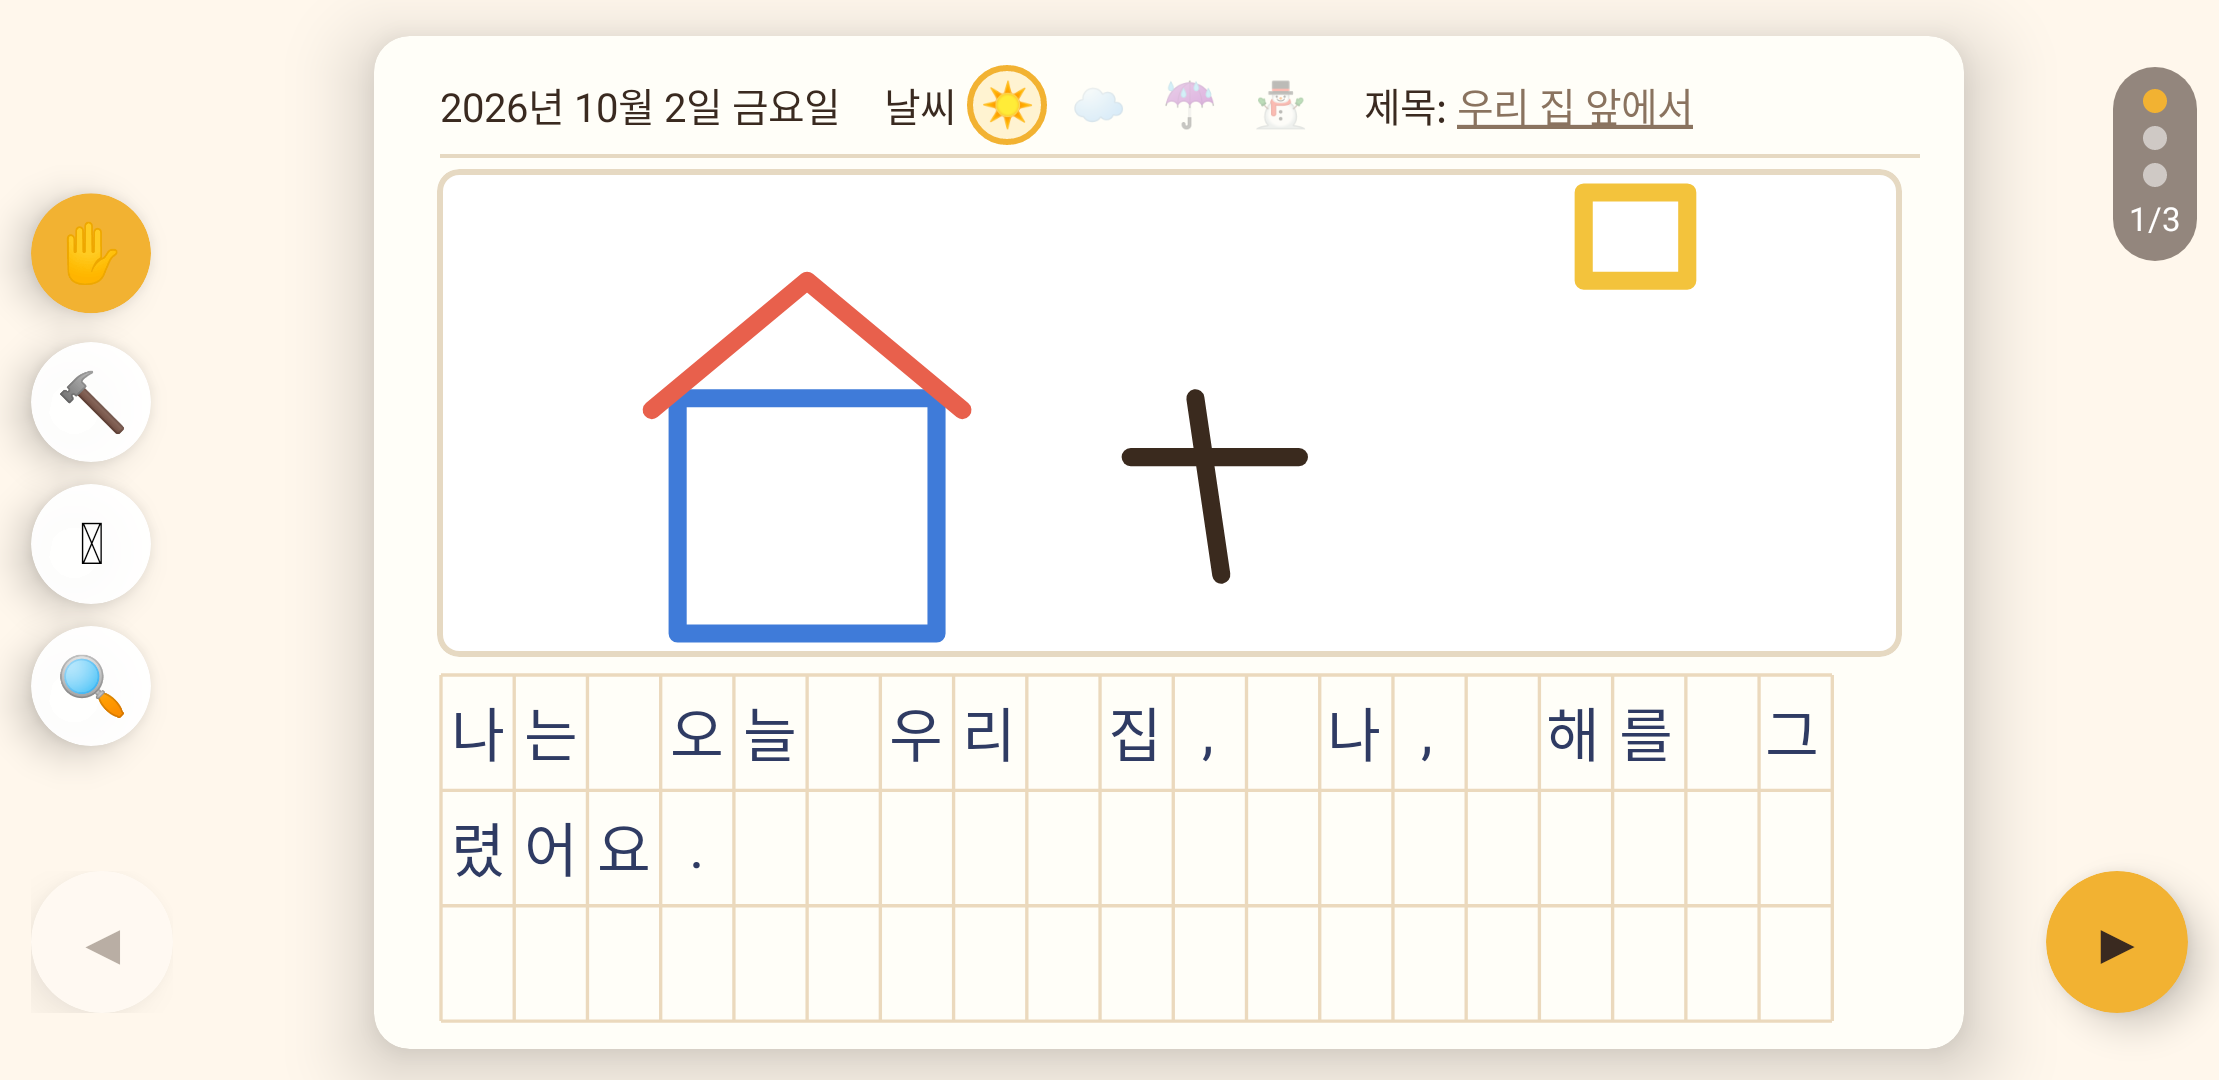
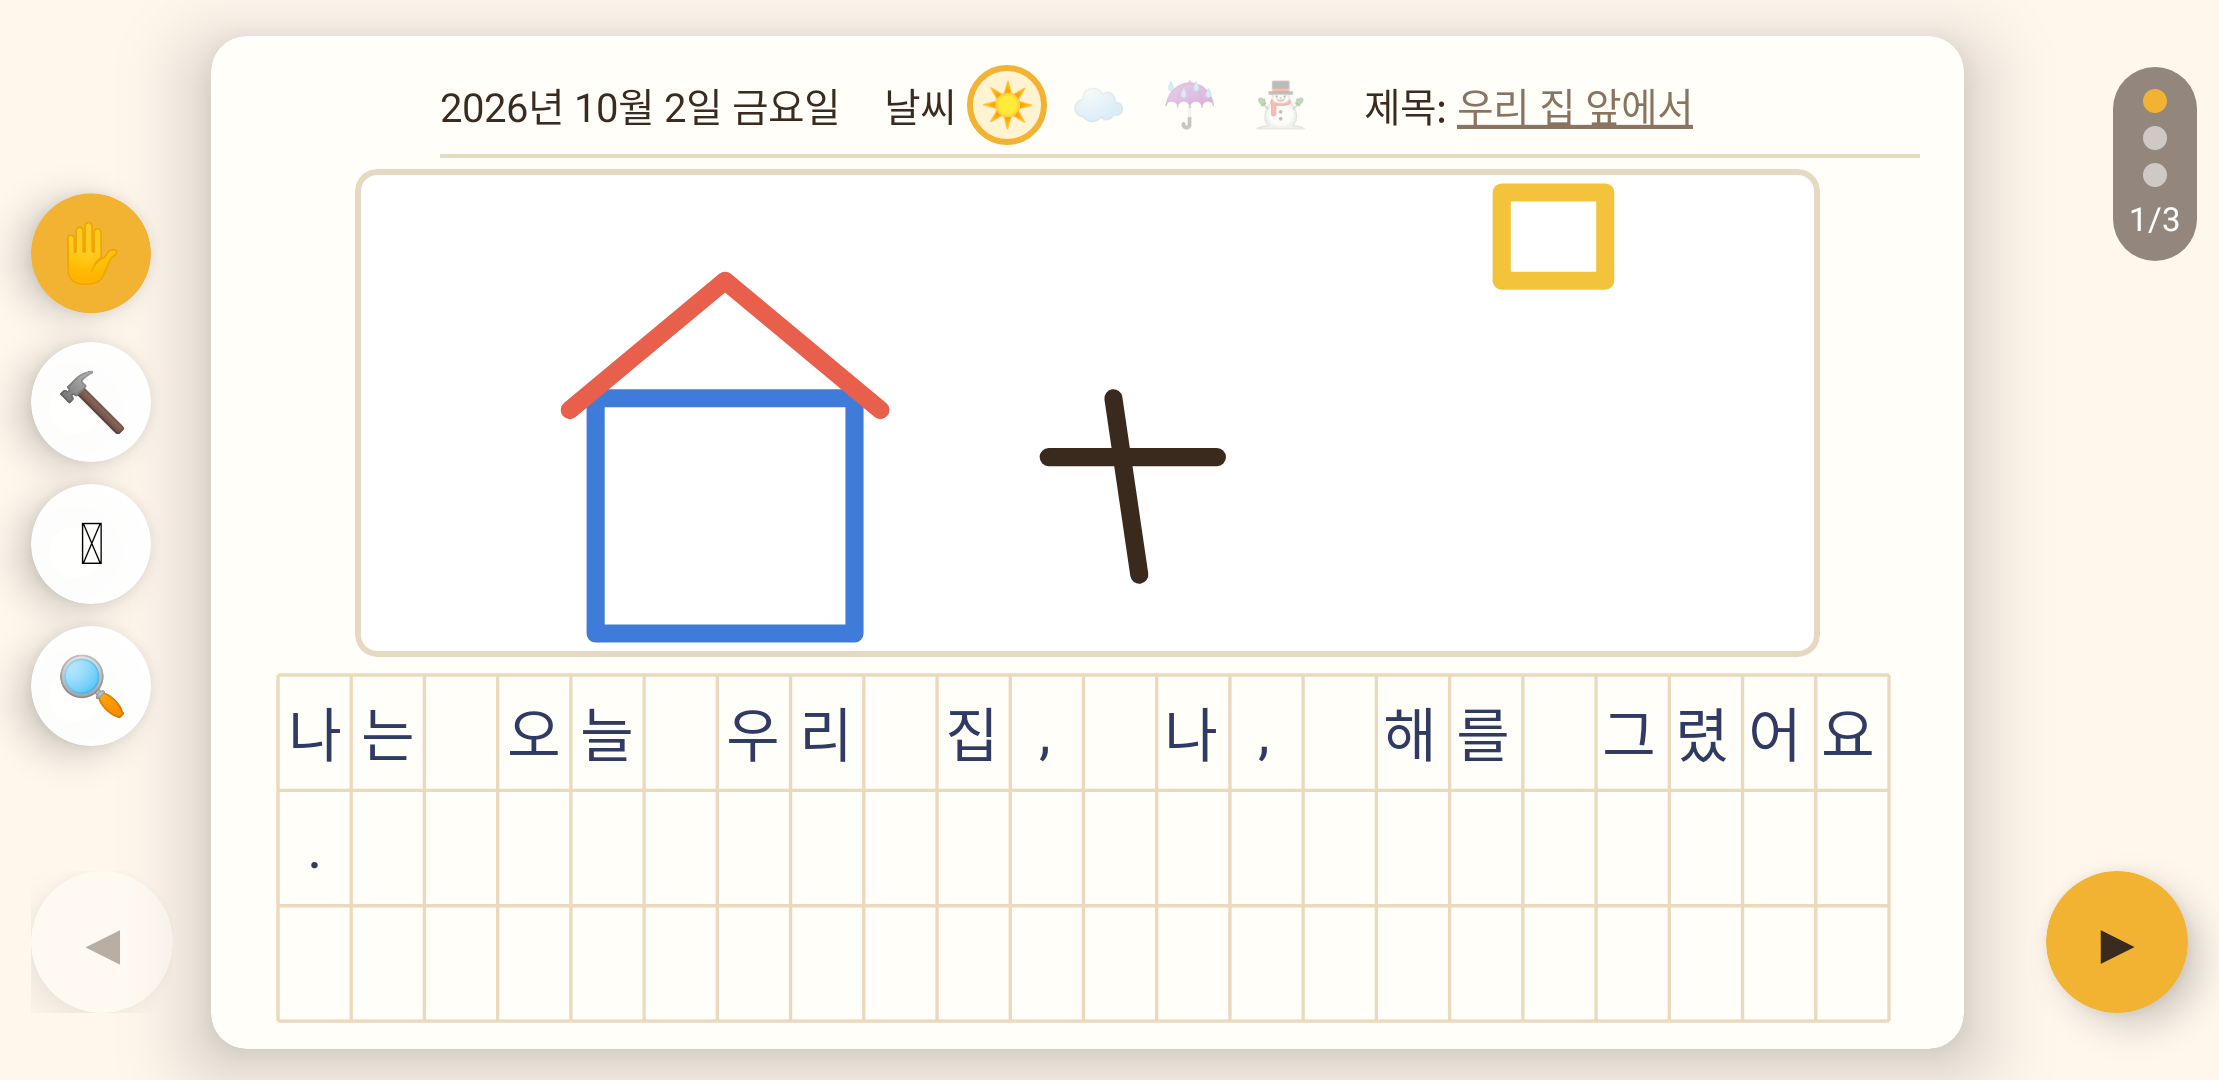
feat(diary): no 🔒 parent door on the picture-diary screens — the board and the page get the room back; the room and the other modes keep it (KidTopBar lock param · one line in MainActivity)
Claude-Session: https://claude.ai/code/session_014T8D9DMqBWvFNzrUFjutEA

diff --git a/android/app/src/main/java/com/example/finalproject_demo/ui/shell/Room.kt b/android/app/src/main/java/com/example/finalproject_demo/ui/shell/Room.kt
@@ -692,15 +692,18 @@ fun online(ctx: Context): Boolean = runCatching {
  * 🏠 는 바로 나가지 않고 「방으로 갈까?」를 묻는다 — 아이가 잘못 눌러 만들던 책을 잃지 않게
  */
 @Composable
-fun KidTopBar(d: Director, modifier: Modifier = Modifier) {
+fun KidTopBar(d: Director, modifier: Modifier = Modifier, lock: Boolean = true) {
     Row(modifier, verticalAlignment = Alignment.CenterVertically) {
         // 「방으로 갈까?」 확인은 화면 전체를 덮어야 해서 앱 틀(OttoShell)이 그린다
         // 보이는 크기 48dp · 누르는 자리 56dp — 자리 사이 4dp 라 보이는 버튼 사이는 12dp (10-01 — 56dp 원이 바짝 붙어 답답했다)
         TopSlot({ Shell.askHome = true }, Modifier.size(TopSlot)) {
             FeltButton(WoolCream, onClick = { Shell.askHome = true }, modifier = Modifier.size(TopFace), shape = CircleShape) { Text("🏠", fontSize = 21.sp) }
         }
-        Spacer(Modifier.width(4.dp))
-        LockDoor { d.openParent() }
+        // 🔒 부모 문 — 그림일기 화면에는 없다(판을 넓게 · 10-05 진웅). 방 · 다른 모드는 그대로
+        if (lock) {
+            Spacer(Modifier.width(4.dp))
+            LockDoor { d.openParent() }
+        }
         // 같이 만들기 중에만 — 부모 「그만하기」 (#36). 누르면 확인 창을 한 번 더 거친다(아이가 잘못 누르지 않게).
         // 10-01 — 옆 🏠 · 🔒 와 같은 펠트 버튼(크림 펠트 · 바느질 · 같은 높이 · 누르면 꾹)에 ComfyUI 펠트 손바닥 그림.
         // 글씨는 어른용 고딕 그대로 — 어른이 누르는 버튼이다

diff --git a/android/app/src/main/java/com/example/finalproject_demo/ui/DiaryViews.kt b/android/app/src/main/java/com/example/finalproject_demo/ui/DiaryViews.kt
@@ -147,8 +147,11 @@ private val BandTop = 112.dp
 /** 앱 틀의 🏠 · 🔒 (`KidTopBar`)가 차지하는 폭 — 그 오른쪽부터 글을 둔다 */
 private val TopBarEnd = 160.dp
 
-/** 🏠 · 🔒 의 오른쪽 끝(12 + 56 + 4 + 56dp)에 틈을 더한 자리 — 그림판 · 일기 종이는 여기서 시작한다. 전에는 🔒 가 판 위에 얹혔다 (#98) */
-private val TopBarRight = 136.dp
+/**
+ * 🏠 의 오른쪽 끝(12 + 56dp)에 틈을 더한 자리 — 그림판 · 일기 종이는 여기서 시작한다. 전에는 🔒 가 판 위에 얹혔다 (#98).
+ * 일기 화면에는 🔒(부모 문)가 없다 — 판을 넓게 쓰려고 뺐다 (10-05 진웅 · `KidTopBar(lock = false)`)
+ */
+private val TopBarRight = 76.dp
 
 /**
  * 🎤 — 일기 화면 어디서나 **오른쪽 아래 같은 자리 · 같은 크기**(다른 일기 화면의 대사 칸 마이크와 같은 96dp · 끝 12dp).

diff --git a/android/app/src/main/java/com/example/finalproject_demo/MainActivity.kt b/android/app/src/main/java/com/example/finalproject_demo/MainActivity.kt
@@ -148,7 +148,7 @@ fun DemoApp() {
 
         // 왼쪽 위 = 시스템 — 🏠 방으로 · 🔒 부모 문(2초). 방 · 부모 · 책장은 자기 버튼이 있어 뺀다
         val kidScreen = pinStage == null && s.scene !in setOf(Scene.ADULT, Scene.PARENT, Scene.SHELF)
-        if (kidScreen) com.example.finalproject_demo.ui.shell.KidTopBar(d, Modifier.align(Alignment.TopStart).padding(start = 12.dp, top = 10.dp))
+        if (kidScreen) com.example.finalproject_demo.ui.shell.KidTopBar(d, Modifier.align(Alignment.TopStart).padding(start = 12.dp, top = 10.dp), lock = !diaryOwnsChrome)
 
         // 시작 화면 오른쪽 위 — 하루 별
         if (s.scene == Scene.ADULT && pinStage == null) {
